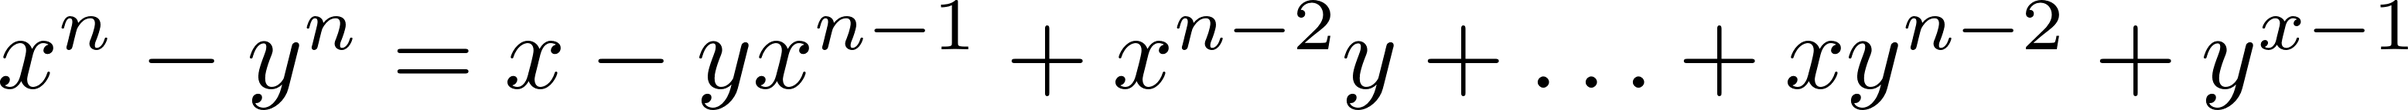
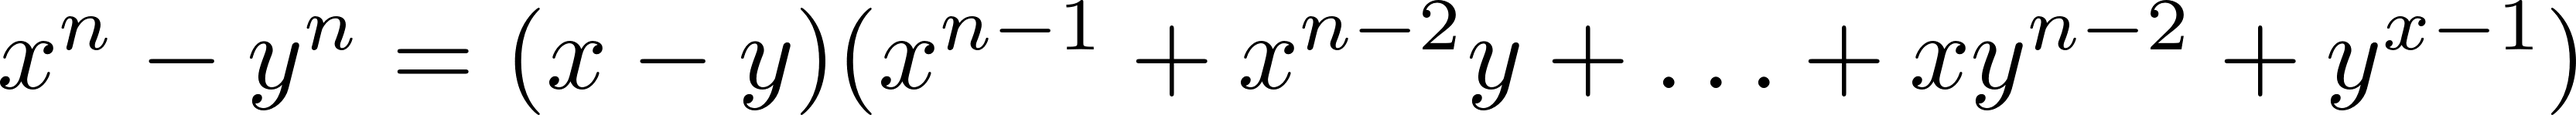
Fixed Parens

diff --git a/src/expression.rs b/src/expression.rs
@@ -90,11 +90,32 @@ pub fn evaulate(expr: &Expr) -> String {
                     format!("{{{}}} - {{{}}}", a_str, b_str)
                 }
                 BinaryOp::Mult => {
-                    if a.is_val() && b.is_val() {
-                        format!("{{{}}} * {{{}}}", a_str, b_str)
+                    let mut output = String::new();
+                    let a_weak = match **a {
+                        Expr::Binary(_, _, BinaryOp::Add) => true,
+                        Expr::Binary(_, _, BinaryOp::Sub) => true,
+                        _ => false,
+                    };
+                    if a_weak {
+                        output.push_str(&format!("{{({})}}", a_str));
                     } else {
-                        format!("{{{}}}{{{}}}", a_str, b_str)
+                        output.push_str(&format!("{{{}}}", a_str));
                     }
+
+                    if a.is_val() && b.is_val() {
+                        output.push_str("*");
+                    }
+                    let b_weak = match **b {
+                        Expr::Binary(_, _, BinaryOp::Add) => true,
+                        Expr::Binary(_, _, BinaryOp::Sub) => true,
+                        _ => false,
+                    };
+                    if b_weak {
+                        output.push_str(&format!("{{({})}}", b_str));
+                    } else {
+                        output.push_str(&format!("{{{}}}", b_str));
+                    }
+                    output
                 }
                 BinaryOp::Frac => {
                     format!("\\frac{{{}}} {{{}}}", a_str, b_str)
